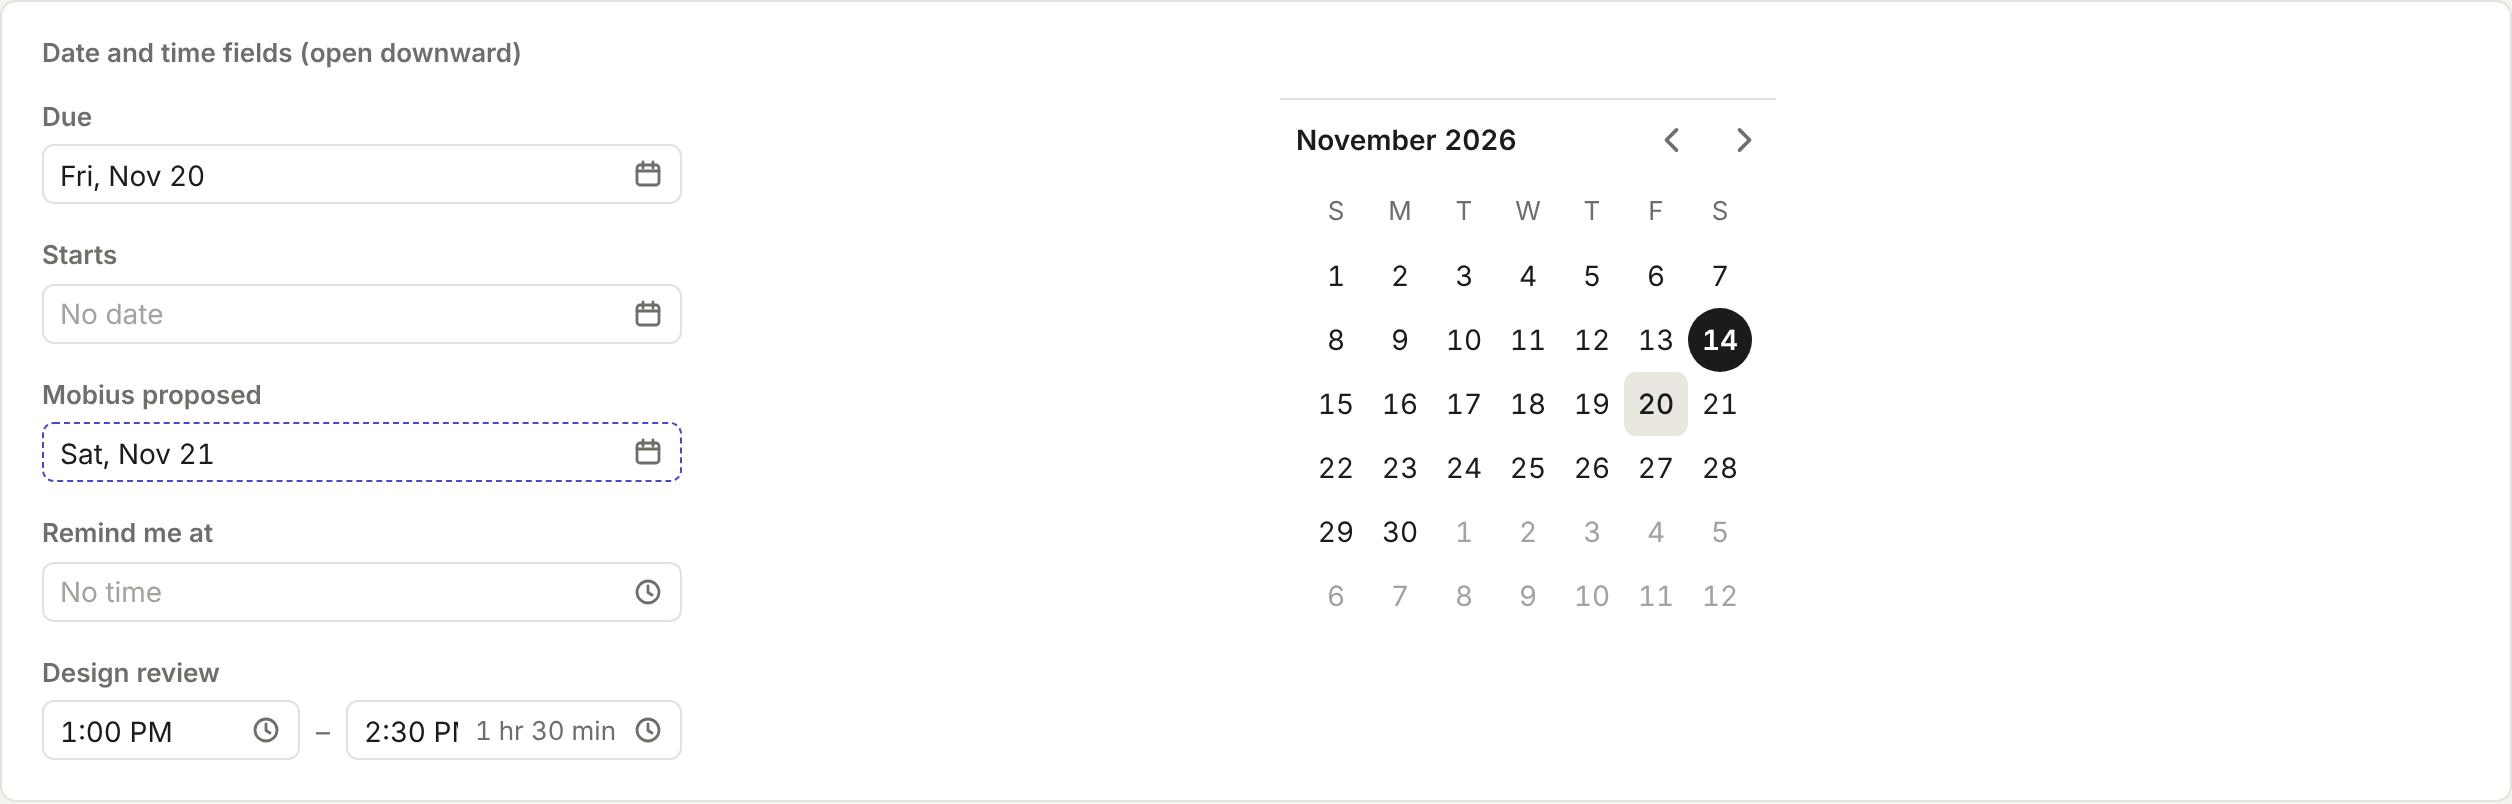
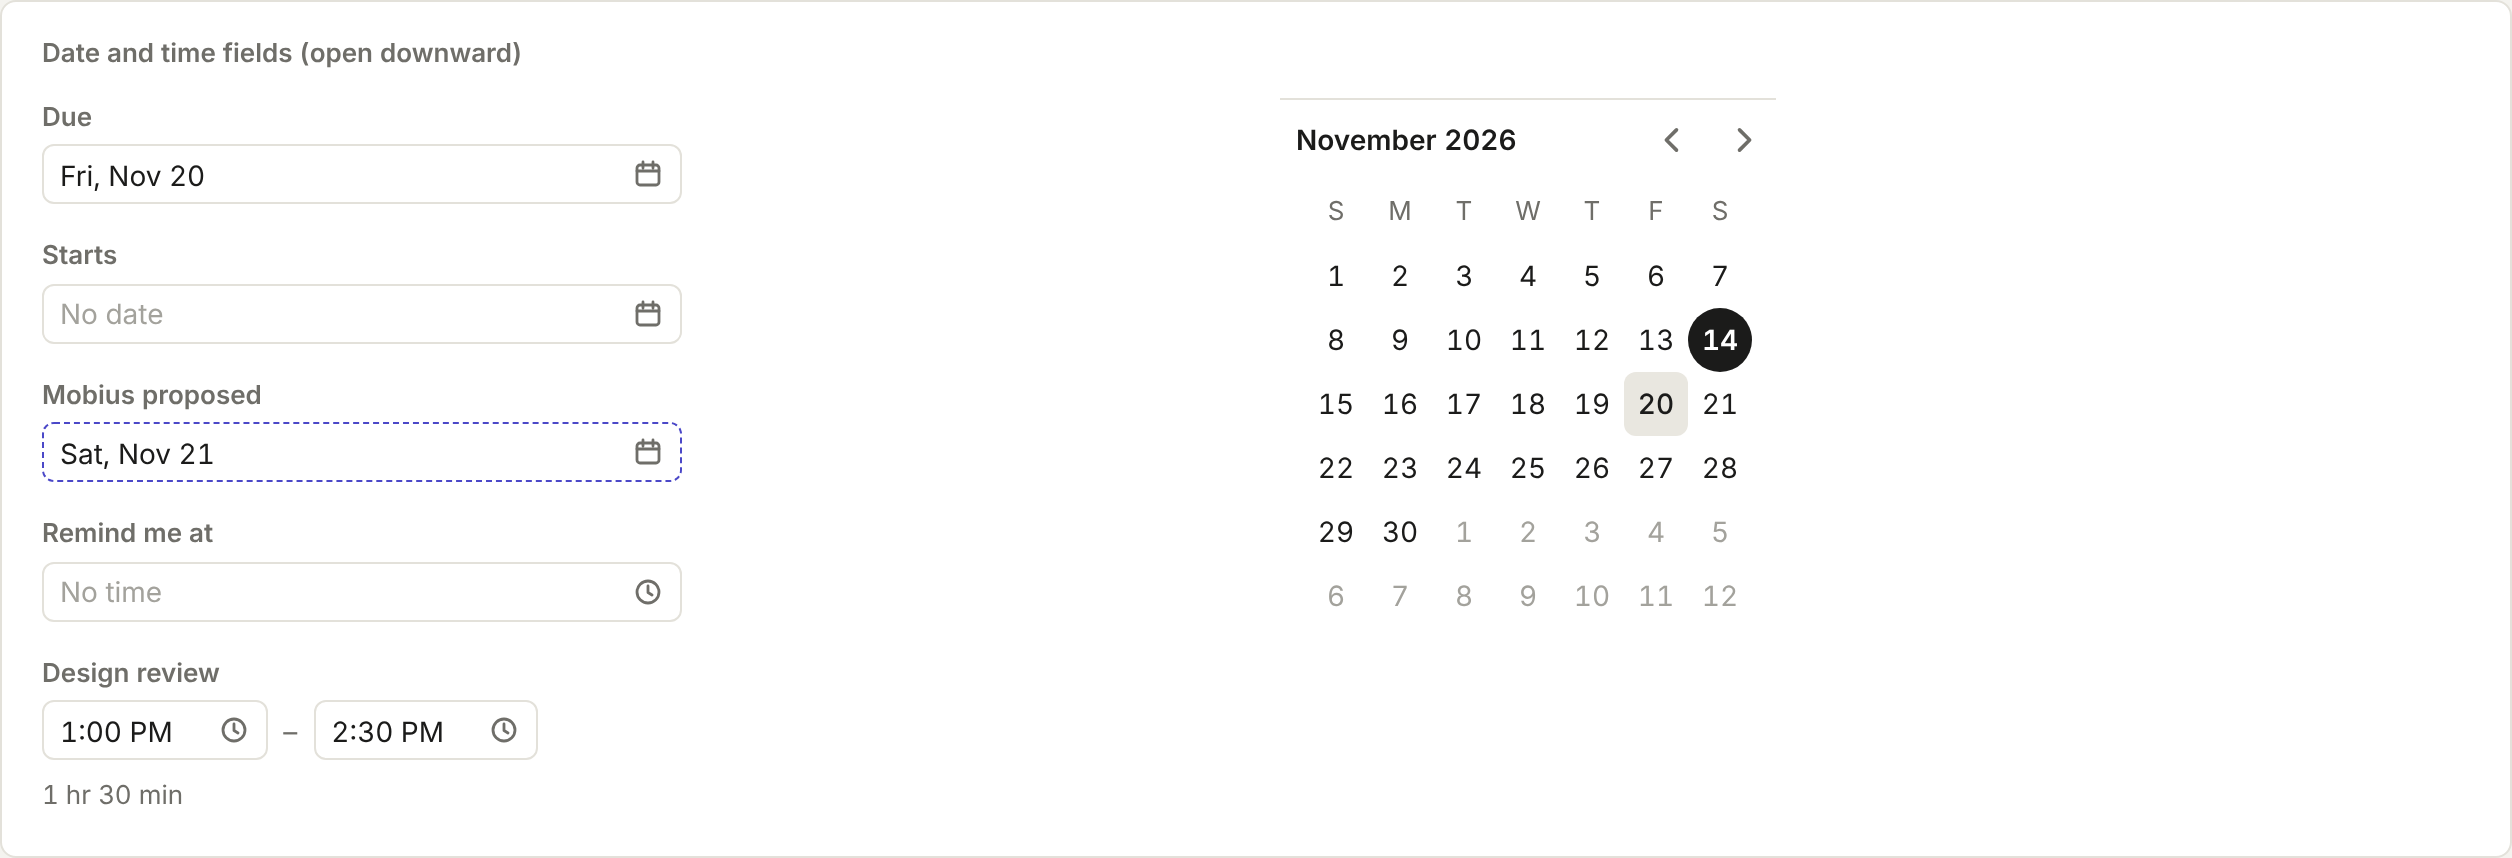
Shell: a time range's length never covers the end time
The pictures showed the length ("1 hr 30 min") covering "2:30 PM" in a
narrow range. TimeRange now shows the length once, in grey after both
times, dropping under them when the row is too narrow; each box keeps to
its time. TimeField takes boxLength to leave its own length out.

Claude-Session: https://claude.ai/code/session_01VRGwo6jTP5FaDQDU1wMNRF

diff --git a/apps/desktop/src/ui/DateField.tsx b/apps/desktop/src/ui/DateField.tsx
@@ -262,6 +262,8 @@ export interface TimeFieldProps {
   onChange: (minutes: number | null) => void;
   /** For an end time: the start, so each listed time shows its length ("1 hr") and the list begins there. */
   from?: number | null;
+  /** With `from`: whether the box shows the length after the time too (TimeRange shows it after both fields instead). */
+  boxLength?: boolean;
   proposed?: boolean;
   placeholder?: string;
   disabled?: boolean;
@@ -273,7 +275,7 @@ export interface TimeFieldProps {
 const QUARTERS = Array.from({ length: DAY_MINUTES / 15 }, (_, i) => i * 15);
 const clockWords = (minutes: number): string => timeLabel(atTime(new Date(2026, 0, 1), ((minutes % DAY_MINUTES) + DAY_MINUTES) % DAY_MINUTES));
 
-export function TimeField({ label, hideLabel, value, onChange, from = null, proposed, placeholder = 'No time', disabled, now: given, className }: TimeFieldProps) {
+export function TimeField({ label, hideLabel, value, onChange, from = null, boxLength = true, proposed, placeholder = 'No time', disabled, now: given, className }: TimeFieldProps) {
   const [open, setOpen] = useState(false);
   const [text, setText] = useState<string | null>(null);
   const [highlight, setHighlight] = useState<number | null>(null);
@@ -358,7 +360,7 @@ export function TimeField({ label, hideLabel, value, onChange, from = null, prop
             else if (typedRead !== null) commit(from !== null && typedRead < from ? typedRead + DAY_MINUTES : typedRead);
           }}
         />
-        {from !== null && value !== null && <span className="ui-field-unit">{lengthLabel(((value - from) % DAY_MINUTES + DAY_MINUTES) % DAY_MINUTES)}</span>}
+        {boxLength && from !== null && value !== null && <span className="ui-field-unit">{lengthLabel(((value - from) % DAY_MINUTES + DAY_MINUTES) % DAY_MINUTES)}</span>}
         <span className="ui-date-icon" aria-hidden="true">{CLOCK}</span>
       </div>
       <BasePopover.Root open={open && !disabled} onOpenChange={(next, details) => { if (!next && details.event?.target !== input.current) { setOpen(false); setHighlight(null); } }}>
@@ -418,7 +420,8 @@ export function TimeRange({ label = 'Time', start, end, onChange, proposed, disa
         onChange={(next) => onChange(next, next === null ? end : (next + length) % DAY_MINUTES)}
       />
       <span className="ui-time-to" aria-hidden="true">–</span>
-      <TimeField label="Ends" hideLabel value={end} from={start} proposed={proposed} disabled={disabled} now={now} onChange={(next) => onChange(start, next)} />
+      <TimeField label="Ends" hideLabel value={end} from={start} boxLength={false} proposed={proposed} disabled={disabled} now={now} onChange={(next) => onChange(start, next)} />
+      {start !== null && end !== null && <span className="ui-time-span">{lengthLabel(length)}</span>}
     </div>
   );
 }

diff --git a/apps/desktop/src/ui/objects.css b/apps/desktop/src/ui/objects.css
@@ -264,8 +264,17 @@ button.ui-object-chip:focus-visible { outline: var(--focus-w) solid var(--ink); 
 .ui-time-list .ui-time-option:hover, .ui-time-list .ui-time-option[data-highlighted] { background: color-mix(in srgb, var(--sel) 50%, transparent); }
 .ui-time-length { margin-left: auto; padding-left: var(--sp-3); color: var(--muted); font-size: var(--fs-sm); }
 .ui-time-field .ui-field-box { min-width: calc(var(--card-w) / 2.5); }
-.ui-time-range { display: flex; align-items: center; gap: var(--sp-2); }
+/* The time itself never clips: an end time's length ("1 hr 30 min") widens the box instead of covering "2:30 PM". */
+.ui-time-field .ui-field-input { min-width: 8ch; }
+.ui-time-field .ui-field-unit { flex: 0 1 auto; min-width: 0; overflow: hidden; white-space: nowrap; text-overflow: ellipsis; }
+.ui-time-range { display: flex; flex-wrap: wrap; align-items: center; gap: var(--sp-2); }
+/* The range's length reads after both times, grey, and drops under them when the row is too narrow. */
+.ui-time-span { color: var(--muted); font-size: var(--fs-sm); font-variant-numeric: tabular-nums; white-space: nowrap; }
 .ui-time-to { color: var(--muted); }
+/* In a range each box keeps to its time, so the two times and their length fit one row in a panel. */
+.ui-time-range > .ui-field { flex: none; }
+.ui-time-range .ui-field-box { min-width: 0; }
+.ui-time-range .ui-field-input { flex: none; width: 8ch; }
 
 /* Pro controls. Number field: the field's box at the pro height and one shared least width, the value right-aligned in
    mono tabular figures with the unit grey after it, so a column of fields lines up on the digits; dragging shows the

diff --git a/apps/desktop/src/ui/dates.test.tsx b/apps/desktop/src/ui/dates.test.tsx
@@ -1,7 +1,7 @@
 import { afterEach, describe, expect, it } from 'vitest';
 import { renderToStaticMarkup } from 'react-dom/server';
 import { dayMonthOrder, setLocaleForTests, uses12Hour, weekStart } from '../dates';
-import { DateField, MonthPicker, TimeField, dateWords } from './DateField';
+import { DateField, MonthPicker, TimeField, TimeRange, dateWords } from './DateField';
 import { lengthLabel, monthGrid, nextWeek, parseDate, parseTime } from './dateText';
 
 // Saturday 14 November 2026, 10:05.
@@ -103,6 +103,13 @@ describe('date and time fields', () => {
     expect(html).toContain('role="combobox"');
     expect(lengthLabel(45)).toBe('45 min');
     expect(lengthLabel(120)).toBe('2 hr');
+  });
+  it('shows a range’s length once, after both times, so it never covers the end time', () => {
+    setLocaleForTests('en-GB');
+    const html = renderToStaticMarkup(<TimeRange label="Meeting" start={780} end={870} onChange={() => {}} />);
+    expect(html.match(/1 hr 30 min/g)).toHaveLength(1);
+    expect(html).toMatch(/class="ui-time-span">1 hr 30 min</);
+    expect(html).not.toContain('ui-field-unit');
   });
   it('takes the week start, day order and clock from the computer', () => {
     setLocaleForTests('en-US');

diff --git a/docs/developers/ui/menus-and-dialogs.md b/docs/developers/ui/menus-and-dialogs.md
@@ -36,7 +36,7 @@ Back to [Shared controls](../shared-controls.md). Pictures: light theme, comfort
 | --- | --- |
 | `DateField` | Any day to pick (due dates, event days, snooze). Shows the day in words ("Thu 20 Nov") and opens a 280px popover downward: a line to type into ("tomorrow", "fri 3pm", "20 nov"), the quick picks Today (T), Tomorrow (M), Next week (W) and No date (Backspace) with the day each means in grey, then the month. Arrows move by day, Page Up and Down by month, Home and End to the week's ends, T to today, Enter picks. `onChange(day, time)` gets the time too when one was typed. `proposed` gives the dashed edge; `quick` swaps the quick picks |
 | `TimeField` | A time of day, as minutes since midnight. Takes typing ("9:30", "3pm", "noon") and lists quarter hours scrolled to the time, or to now. With `from` (an end time) the list starts after the start and shows each time's length in grey |
-| `TimeRange` | A start and an end side by side. Moving the start moves the end with it, keeping the length |
+| `TimeRange` | A start and an end side by side, with the length in grey after them (it drops under the times in a narrow panel). Moving the start moves the end with it, keeping the length |
 | `MonthPicker` | The month on its own, for a sidebar or a panel |
 
 Read typed text with `parseDate(text, now)` and `parseTime(text)` from the same module, so apps and the agent read
